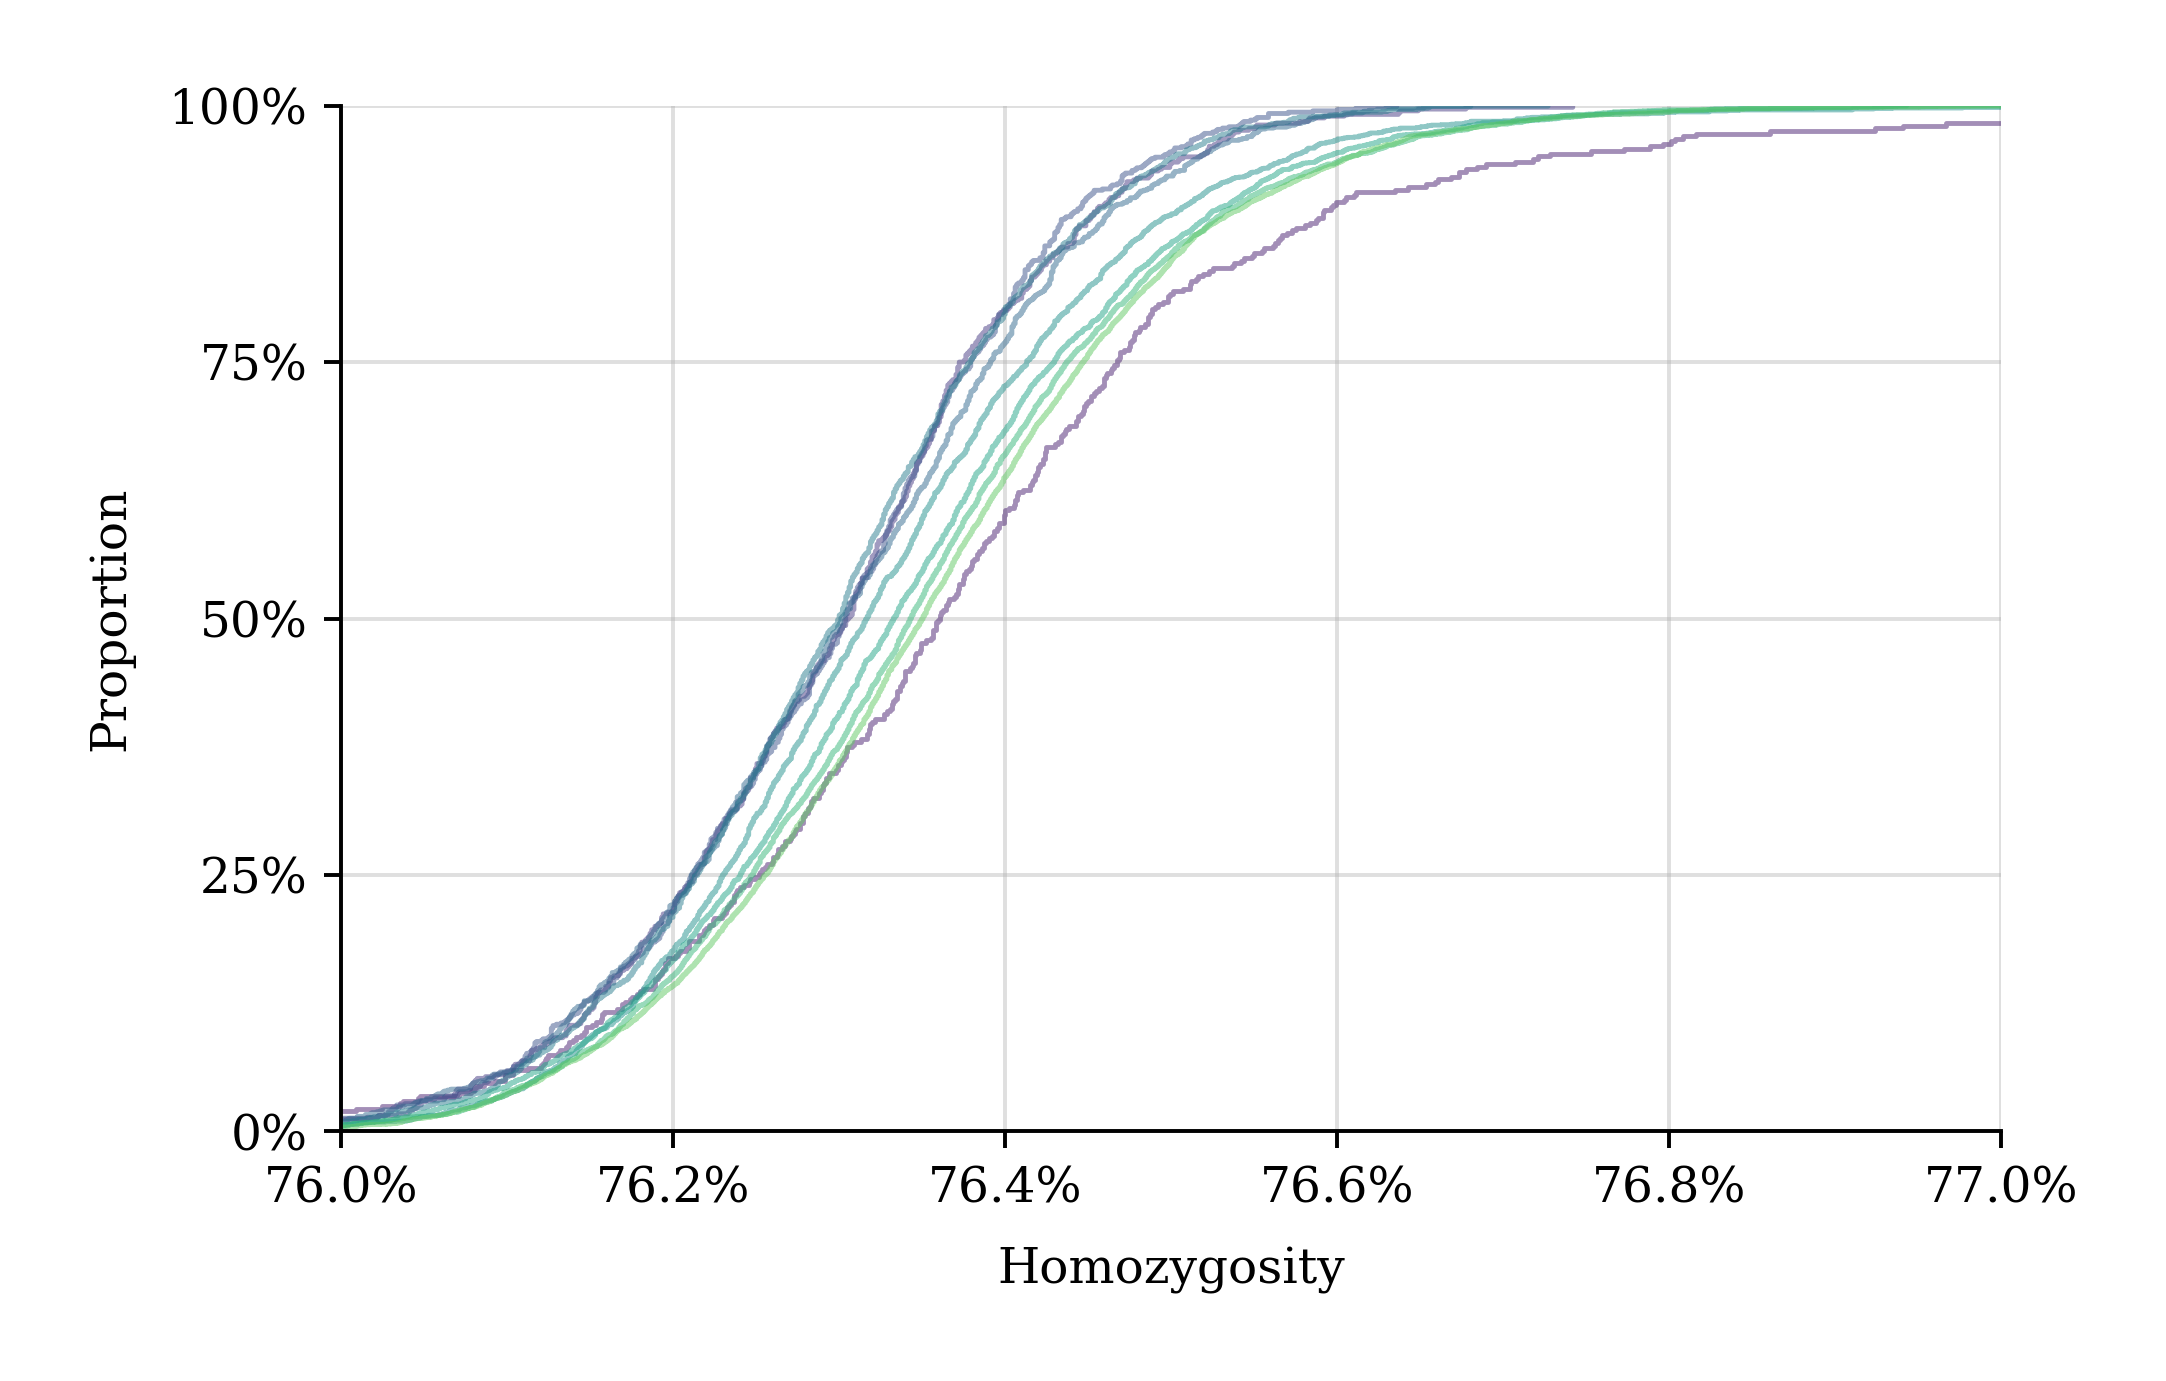
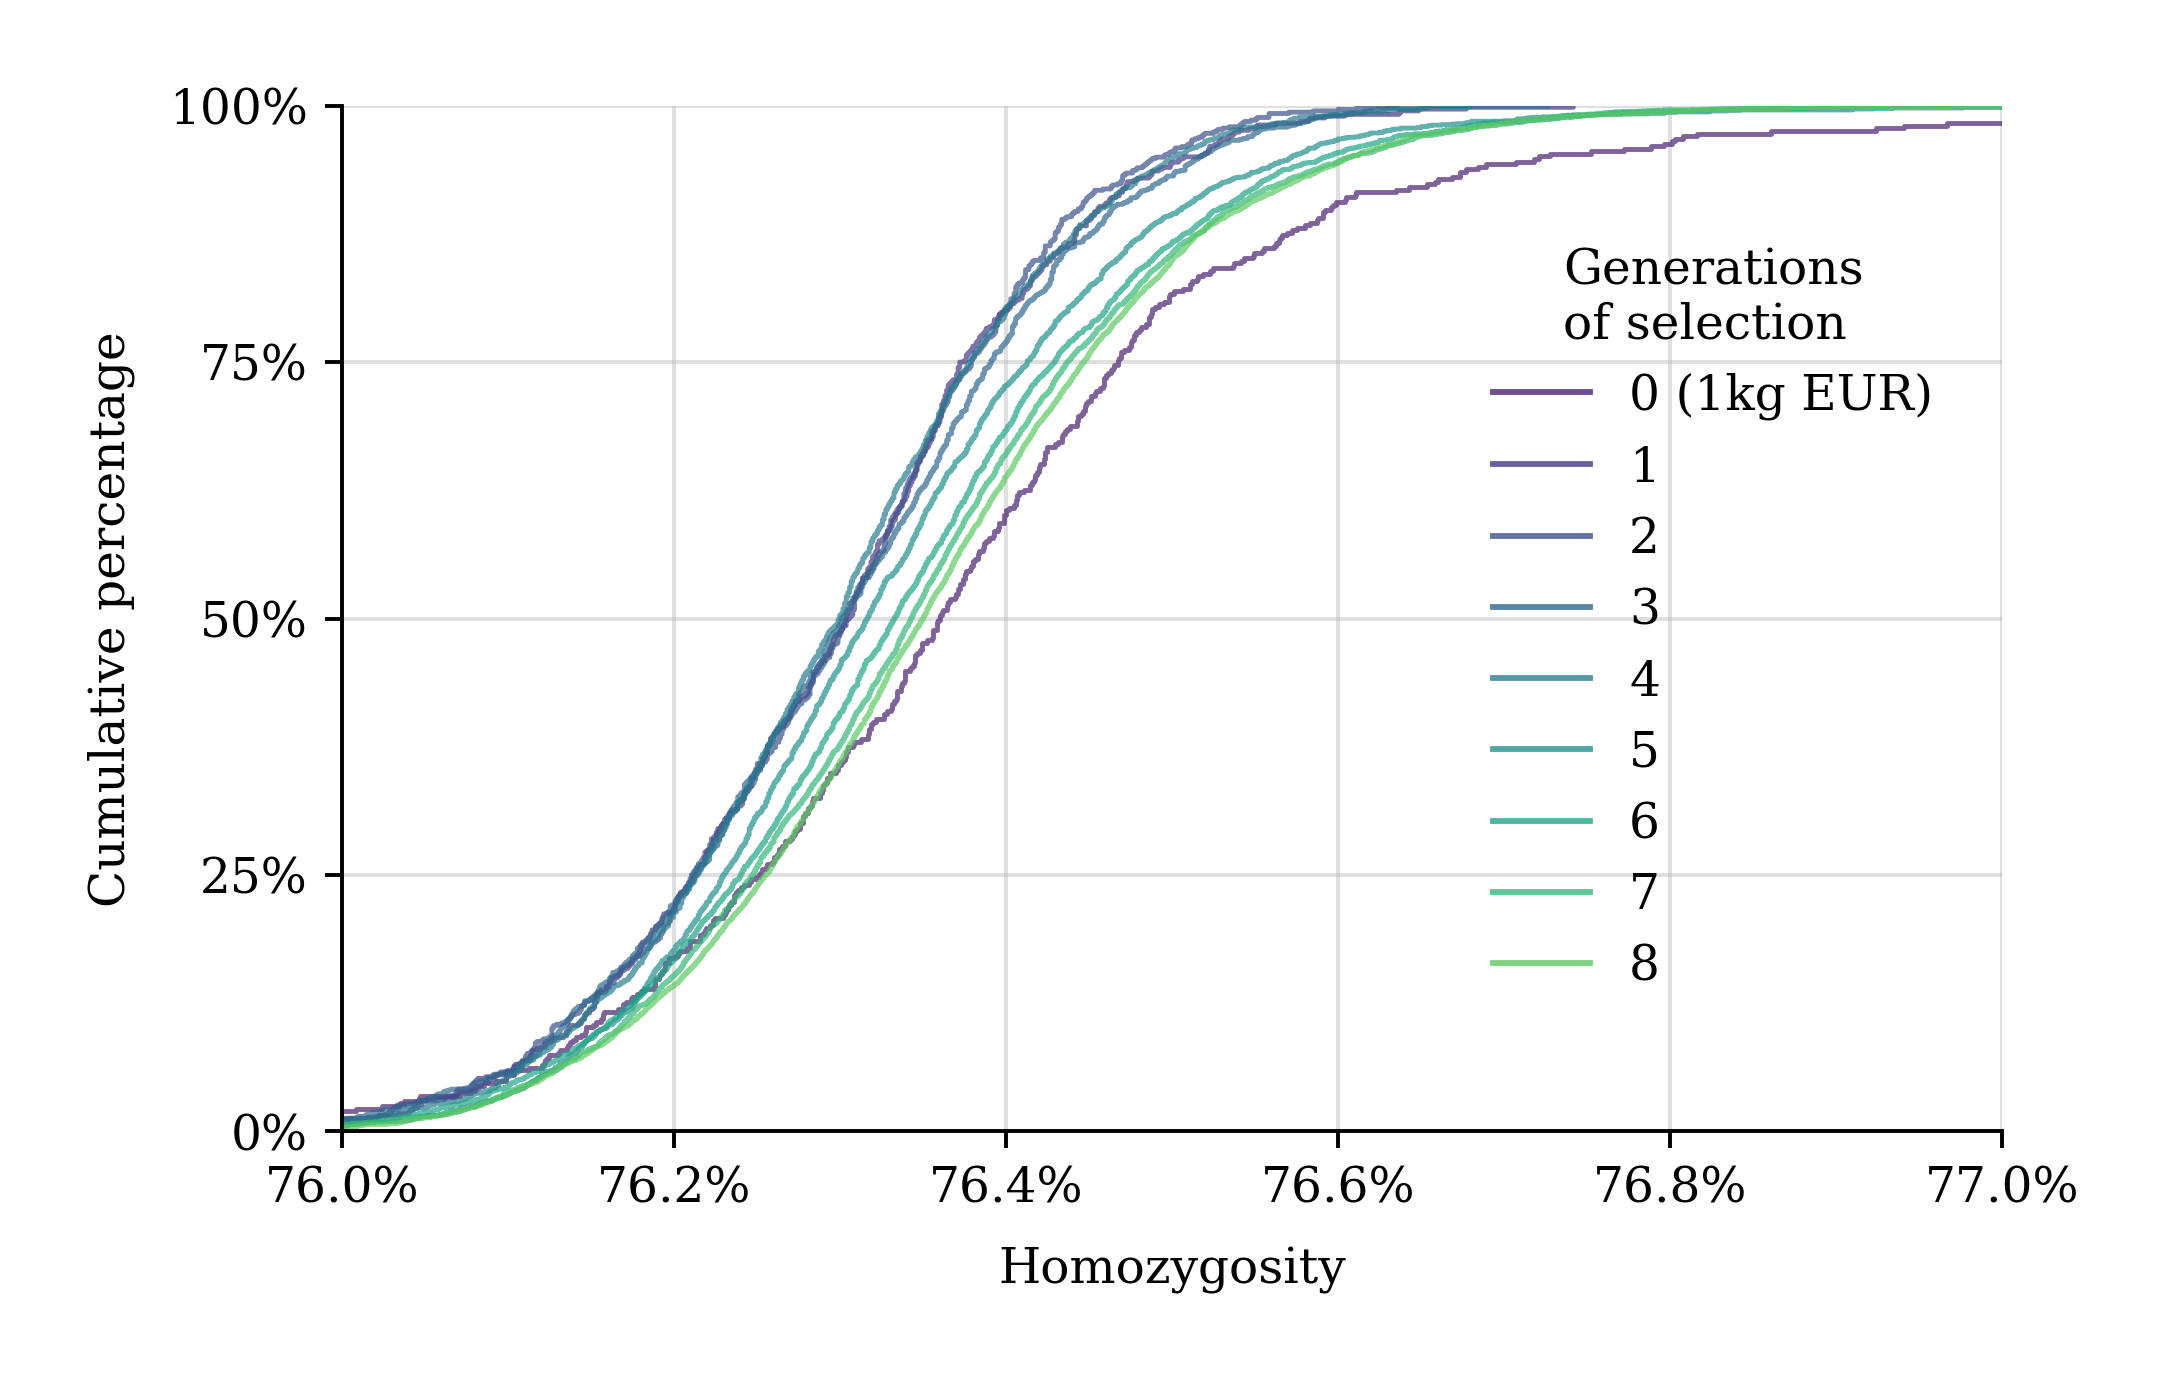
fix non-adjacent meiosis chunks and update readme

diff --git a/paul.py b/paul.py
@@ -213,22 +213,54 @@ def load_n_meioses(force_reload=False):
     return n_meioses
 
 
-def load_meioses():
-    dm = load_df("meioses")
-    dm = dm[dm.chrom != "X"]
-    dm.chrom = dm.chrom.astype(int)
-    exclude_cols = [
-        "sex",
-        'pos_start_hg19', 'pos_end_hg19', 
-        'pos_start_hg19_query', 'pos_end_hg19_query'
-        ]
-    dm.rename(columns={
-        "pos_start_hg38": "pos_start",
-        "pos_end_hg38": "pos_end"
-        }, inplace=True)
-    dm = dm.drop(columns=exclude_cols)
-    dm.rename(columns={"individual": "meiosis_num"}, inplace=True)
-    return dm
+def load_meioses(force_reload=False):
+    if not os.path.exists("data/meioses_fixed.csv") or force_reload:
+        dm = load_df("meioses")
+        dm = dm[dm.chrom != "X"]
+        dm.chrom = dm.chrom.astype(int)
+        exclude_cols = [
+            "sex",
+            'pos_start_hg19', 'pos_end_hg19', 
+            'pos_start_hg19_query', 'pos_end_hg19_query'
+            ]
+        dm.rename(columns={
+            "pos_start_hg38": "pos_start",
+            "pos_end_hg38": "pos_end"
+            }, inplace=True)
+        dm = dm.drop(columns=exclude_cols)
+        dm.rename(columns={"individual": "meiosis_num"}, inplace=True)
+        dm.reset_index(drop=True, inplace=True)
+        
+        # Make the pos_start and pos_end next to each other
+        # a dozen or so hg19 -> hg38 alignment issues
+        for i, row in dm.iterrows():
+            if i == len(dm) - 2:
+                break
+            row_next = dm.iloc[i+ 1]
+            assert row.name == i
+            assert row_next.name == i + 1
+            if row.chrom == row_next.chrom and row.meiosis_num == row_next.meiosis_num:
+                if row.pos_end + 1 != row_next.pos_start:
+                    dm.loc[dm.index == i + 1, "pos_start"] = row.pos_end + 1
+                    # difference = row_next.pos_start - (row.pos_end + 1)
+                    # counts[difference] += 1
+        
+        # Check that all the chunks are adjacent now
+        for i, row in dm.iterrows():
+            if i == len(dm) - 2:
+                break
+            row_next = dm.iloc[i+ 1]
+            assert row.name == i
+            assert row_next.name == i + 1
+            if row.chrom == row_next.chrom and row.meiosis_num == row_next.meiosis_num:
+                assert row.pos_end + 1 == row_next.pos_start
+        
+        save_df(dm, "meioses_fixed")
+
+    return load_df("meioses_fixed")
+
+
+
 
 
 def get_random_meiosis():

diff --git a/plotting.py b/plotting.py
@@ -542,7 +542,7 @@ def plot_homozygosity_ecdf():
     for generation in range(N_GENERATIONS + 1):
         sns.ecdfplot(
             data=dh[dh.generation == generation],
-            alpha=0.5,
+            alpha=0.7,
             x='frac_hom',
             # linestyle="--" if generation % 2 == 1 else "-",
             linewidth=1,
@@ -550,9 +550,24 @@ def plot_homozygosity_ecdf():
             ax=ax,
         )
 
+    # Create custom legend handles
+    def get_label(generation):
+        if generation == 0:
+            return f"0 (1kg EUR)"
+        return generation
+
+    handles = [
+        Line2D([0], [0], color=palette[i], alpha=0.8, lw=1.2, label=get_label(i))
+        for i in range(N_GENERATIONS+1)
+    ]
+
+    ax.legend(handles=handles, title="Generations\nof selection", 
+              frameon=False, loc="center right", bbox_to_anchor=(0.985, 0.5)) 
+
     ax.set_xlim(0.76, 0.77)
     ax.percent_xscale(change_lim=False, decimals=1)
     ax.percent_yscale()
+    ax.set_ylabel("Cumulative percentage")
     ax.grid()
     ax.remove_top_right_spines()
     ax.set_xlabel("Homozygosity")

diff --git a/README.md b/README.md
@@ -1,32 +1,90 @@
 
+
 ## [Kefitzat haderech](https://en.wikipedia.org/wiki/Kefitzat_haderech)
 
 
 
-![](images/genomic_prediction_height_corr.jpg)
+
+This is a repository of code and images for an upcoming LessWrong post about embryo selection.
 
 
-![](images/pgs_dist_generations.png)
+# Background
+Much has been said on LW about multiplex gene editing, gametogenesis, artificial wombs, and other paths to genetically advantageous "superbabies." The use of those technologies to alter human genetic material would be an inflection point in human history. But, currently, they are either nonexistent, illegal, unsafe, untested or impossible to implement.
+Embryo selection is slow to shift means meaningfully over time; in a given generation it is bounded by the existing genetic material of the parents; it is largely dependent on the number of embryos a couple has. But it can be done right now, legally, in the United States, for relatively cheap.
+<img src="images/make_superbabies_working_today.png" width="600">
 
-![](images/freq_vs_weight_before_after.png)
 
-![](images/population_size_generations.png)
 
-![](images/male_female_meioses.png)
 
-![](images/meioses_events.png)
+In the post, we explore embryo selection's effectiveness, consequences and costs. We simulate embryo selection over 8 generations, using real whole human genomes and realistic simulated meioses. For this simulation, we chose height as our trait of interest (the trait embryos are selected for).
 
-![](images/pmf_n_embryos.png)
 
-![](images/embryo_ranks.png)
+We aim to show:
+   - Meiosis outcomes, embryo screening and embryo selection can be realistically simulated
+   - Embryo selection is effective at raising the likelihood of above-average outcomes with respect to traits of interest, and it is very effective at reducing the likelihood of far-below-average outcomes.
+   - Embryo selection for height remains effective in consistently raising generation-to-generation population height when repeated across generations
+   - Embryo selection for height does not significantly increase homozygosity in the population when repeated over many generations (hundreds of years). Similarly,
+   - Something about altering risks for other diseases?
 
-![](images/embryo_dists.png)
 
-![](images/freq_vs_weight.png)
+# The simulation
+We start with 403 unrelated, real human genomes from the 1000 Genomes Project. These genomes are whole-genome sequenced and phased. This is our "Generation 0." To simulate reproduction, we pair them randomly into male/female couples. Each couple then performs IVF and embryo selection. Specifically, each couple gets two IVF cycles. The number of embryos achieved per cycle is drawn from a Poisson distribution with a mean of 6. So, on average, each fertile couple has about 12 embryos. 5% of couples are infertile and produce no embryos. Since parent genomes are phased, we realistically simulate meiosis using pedsim, which gives us realistic recombination patterns for offspring genomes. Embryos are generated from the result of these recombinations.Once we have a genome for each embryo, we compute a polygenic score (PGS) for height. This score comes from Raben. Then, each couple selects embryos for implantation. They transfer one at a time, in order of highest polygenic height score, until they have three live births or run out of embryos. Each transfer has a 65% chance of resulting in a live birth. The babies collectively born from this process constitute the next generation (here, Generation 0's children are together "Generation 1.") Each new generation forms new couples among themselves (avoiding incest). Then they undergo same process of IVF, selection and birth of the next generation. We repeat until we reach Generation 8.
 
-![](images/genetic_material.png)
 
-![](images/homozygosity_ecdf.png)
+# Images
+
+
+<img src="images/genomic_prediction_height_corr.jpg" width="500">
+(above) Polygenic height predictors accurately forecast adult height for both men and women. These predictors capture almost all of the heredity of height. [citation]
+
+
+The polygenic score we use integrates hundreds of SNPs (single nucleotide polymorphisms--individual positions in the human genome that vary among people). The predictor takes into account only common SNPs (i.e., those that have a minor allele frequency of at least 1%). Each SNP of interest is assigned an effect sixze corresponding to the relative effect of the SNP on height. The plot above shows the relationship between the frequency (in the reference population---our generation 0) of SNPs in the height predictor, and their effect size. In the reference population, SNPs with higher effect sizes tend to be rarer. The polygenic score is calculated by multiplying the effect size of each SNP by the number of copies each individual has (0, 1 or 2) to produce a single number.
+
+
+<img src="images/pgs_dist_generations.png" width="600">
+(above) The program of repeated embryo selection results in increased heights from generation to generation.
+
+
+<img src="images/freq_vs_weight_before_after.png" width="600">
+(above) From generation 0 (the original 403 genomes from 1000 Human Henomes project) to generation 8, SNPs correlating with increased height tended to be swept up in frequency (red lines), while alleles correlating with decreased height tended to be swept down in frequency (blue lines).
+
+
+<img src="images/population_size_generations.png" width="500">
+(above) The populations of the generations increased. Almost all of the fertile couples had 3 live births. 
+
+
+<img src="images/male_female_meioses.png" width="500">
+
+
+<img src="images/meioses_events.png" width="600">
+(above) We were able to realistically simulate meioses using pedsim [link]. Sperm and eggs undergo meiosis differently---egg recombination points tend to be both more numerous and more evenly distributed across the chromosomes, while sperm ercombination points tend to be less numerous and concentrated near the edges of the chromosomes.
+
+
+<img src="images/pmf_n_embryos.png" width="500">
+(above) In our simulation, the number of embryos achieved per couple per IVF cycle is drawn from a Poisson distribution with a mean of 6. Each couple undergoes two rounds of IVF. So, on average, each fertile couple has about 12 embryos. 5% of couples are infertile and produce no embryos.
+
+
+<img src="images/embryo_ranks.png" width="600">
+(above) In our simulation, each couple transfers one embryo at a time, in order of highest polygenic height score, until they have three live births or run out of embryos. Each transfer has a 65% chance of resulting in a live birth. Above, the members of generations 1-8 are shown according to their initial rank among their parent couple's embryo cohort.
+
+
+<img src="images/embryo_dists.png" width="600">
+(above) In our simulation, babies born tend to be drawn from the top one-third of their parent couple's embryo cohort with respect to polygenic height score.
+
+
+<img src="images/freq_vs_weight.png" width="600">
+(above) In our simulation, the frequency of SNPs in the polygenic height predictor shifted between generations as they repeated the process of embryo selection. Alleles correlating with increased height tended to be swept up in frequency (red lines), while alleles correlating with decreased height tended to be swept down in frequency (blue lines).
+
+
+<img src="images/genetic_material.png" width="500">
+
+
+
+
+<img src="images/homozygosity_ecdf.png" width="500">
+
+
+
 
 
 
